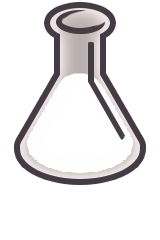
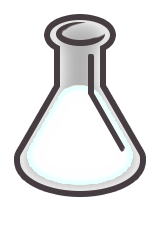
Allow feeding potions to pets

Changed region(s): [[0.0625, 0.2917, 0.9375, 0.8458], [0.25, 0.0, 0.75, 0.2333]]

diff --git a/src/client/app.js b/src/client/app.js
@@ -7,7 +7,7 @@ const local_storage = require('./local_storage.js');
 const particle_data = require('./particle_data.js');
 const random_seed = require('random-seed');
 
-const { v2Build, v3Add, v3Build, v3BuildZero, v3Max, v3Sub, v4Build } = VMath;
+const { v2Build, v3Add, v3Build, v3BuildZero, v3Max, v3Min, v3Sub, v4Build } = VMath;
 const { min, max, PI } = Math;
 const { defaults, merge, clone } = require('../common/util.js');
 
@@ -38,6 +38,7 @@ const PEN_H = 944;
 const sprite_size = 160;
 const PET_SIZE = sprite_size;
 const MULLIGAN_MAX = 3;
+const POTENCY_MAX = 10;
 
 const connectivity = {
   'corner': [[TOP, RIGHT]],
@@ -147,6 +148,14 @@ export function main(canvas) {
       game_state.board.push(row);
     }
   }
+
+  function newSink() {
+    return {
+      value: v3Build(0, 0, 0),
+      offset: rand.random() * 16,
+    };
+  }
+
   function randomizeArray(arr) {
     for (let ii = arr.length - 1; ii >= 0; --ii) {
       let idx = rand(ii + 1);
@@ -177,9 +186,7 @@ export function main(canvas) {
       } else {
         game_state.sources.push(null);
       }
-      game_state.sinks.push({
-        value: v3Build(0, 0, 0),
-      });
+      game_state.sinks.push(newSink());
     }
     randomizeArray(game_state.sources);
     let types = [0, 1, 2];
@@ -254,6 +261,7 @@ export function main(canvas) {
       if (brew[ii] !== null) {
         v3Add(sinks[ii].value, output_from_type[brew[ii].type], sinks[ii].value);
         v3Max(sinks[ii].value, VMath.zero_vec, sinks[ii].value);
+        v3Min(sinks[ii].value, [POTENCY_MAX, POTENCY_MAX, POTENCY_MAX], sinks[ii].value);
         assert(brew[ii].uid);
         merge(used, brew[ii].uid);
       }
@@ -306,6 +314,8 @@ export function main(canvas) {
     }, params_square);
     sprites.beaker_full = createSpriteSimple('beaker-full', sprite_size, sprite_size * 1.5, params_beaker);
     sprites.beaker_empty = createSpriteSimple('beaker-empty', sprite_size, sprite_size * 1.5,
+      defaults({ layers: 1 }, params_beaker));
+    sprites.beaker_select = createSpriteSimple('beaker-select', sprite_size, sprite_size * 1.5,
       defaults({ layers: 1 }, params_beaker));
 
     sprites.pet_select = [];
@@ -436,6 +446,7 @@ export function main(canvas) {
           };
           if (glov_input.clickHit(param)) {
             // TODO: Confirm modal if wasting existing souce?
+            glov_ui.setMouseOver(`source_${ii}`);
             glov_ui.playUISound('button_click');
             for (let jj = 0; jj < meat.length; ++jj) {
               let idx = ii + jj;
@@ -557,22 +568,40 @@ export function main(canvas) {
     for (let ii = 0; ii < PIPE_DIM; ++ii) {
       let b = game_state.sinks[ii];
       let type = beakerType(b.value, 3);
+      let param = {
+        x: x0 + sprite_size * ii,
+        y: y0 + b.offset - 16,
+        z: Z.SPRITES,
+        size: [1, 1], // drawing
+        w: sprite_size, // mouse
+        h: sprite_size * 1.5,
+      };
       if (type < 0) {
-        sprites.beaker_empty.drawDualTint({
-          x: x0 + sprite_size * ii,
-          y: y0,
-          z: Z.SPRITES,
-          size: [1, 1],
-        });
+        sprites.beaker_empty.draw(param);
       } else {
-        sprites.beaker_full.drawDualTint({
-          x: x0 + sprite_size * ii,
-          y: y0,
-          z: Z.SPRITES,
-          color: fluid_colors[type],
-          color1: fluid_colors_glow[type],
-          size: [1, 1],
-        });
+        let selected = 0;
+        if (glov_input.clickHit(param)) {
+          glov_ui.setMouseOver(b);
+          glov_ui.playUISound('select');
+          game_state.selected = ['sink', ii];
+          selected = 1;
+        } else if (game_state.selected && game_state.selected[0] === 'sink' && game_state.selected[1] === ii) {
+          selected = 0.75;
+        }
+        if (glov_input.isMouseOver(param)) {
+          glov_ui.setMouseOver(b);
+          if (!selected) {
+            selected = 0.5;
+          }
+        }
+        param.color = fluid_colors[type];
+        param.color1 = fluid_colors_glow[type];
+        sprites.beaker_full.drawDualTint(param);
+        if (selected) {
+          param.color = v4Build(1, 1, 1, selected);
+          param.z--;
+          sprites.beaker_select.draw(param);
+        }
       }
     }
   }
@@ -619,8 +648,17 @@ export function main(canvas) {
     });
   }
 
+  function feedPet(pet_idx, sink_idx) {
+    let pet = game_state.pen[pet_idx];
+    let sink = game_state.sinks[sink_idx];
+    assert(pet);
+    v3Add(pet.value, sink.value, pet.value);
+    game_state.sinks[sink_idx] = newSink();
+  }
+
   function drawPen(dt) {
     let { pen } = game_state;
+    let sink_selected = game_state.selected && game_state.selected[0] === 'sink';
     for (let ii = 0; ii < pen.length; ++ii) {
       let pet = pen[ii];
       let type = beakerType(pet.value, pet.size);
@@ -640,11 +678,16 @@ export function main(canvas) {
       sprites.pets[pet.species].drawDualTint(param);
 
       let selected = 0;
-      let selectable = meatFromPet(pet).length;
+      let selectable = sink_selected || meatFromPet(pet).length;
       if (selectable && glov_input.clickHit(param)) {
         glov_ui.playUISound('select');
         selected = 1;
-        game_state.selected = ['pet', ii];
+        if (sink_selected) {
+          // Feed them!
+          feedPet(ii, game_state.selected[1]);
+        } else {
+          game_state.selected = ['pet', ii];
+        }
       } else if (game_state.selected && game_state.selected[0] === 'pet' && game_state.selected[1] === ii) {
         selected = 0.75;
       }

diff --git a/README.md b/README.md
@@ -11,6 +11,7 @@ TODO:
 * Animate pets
 * More pet variety and size variety
 * Pets wander when mouse not near them
+* How many count taps for source values - maybe should be divided by 2, as one tap can fill all 6 bottles sometimes!
 
 
 Alchemical Menagerie
